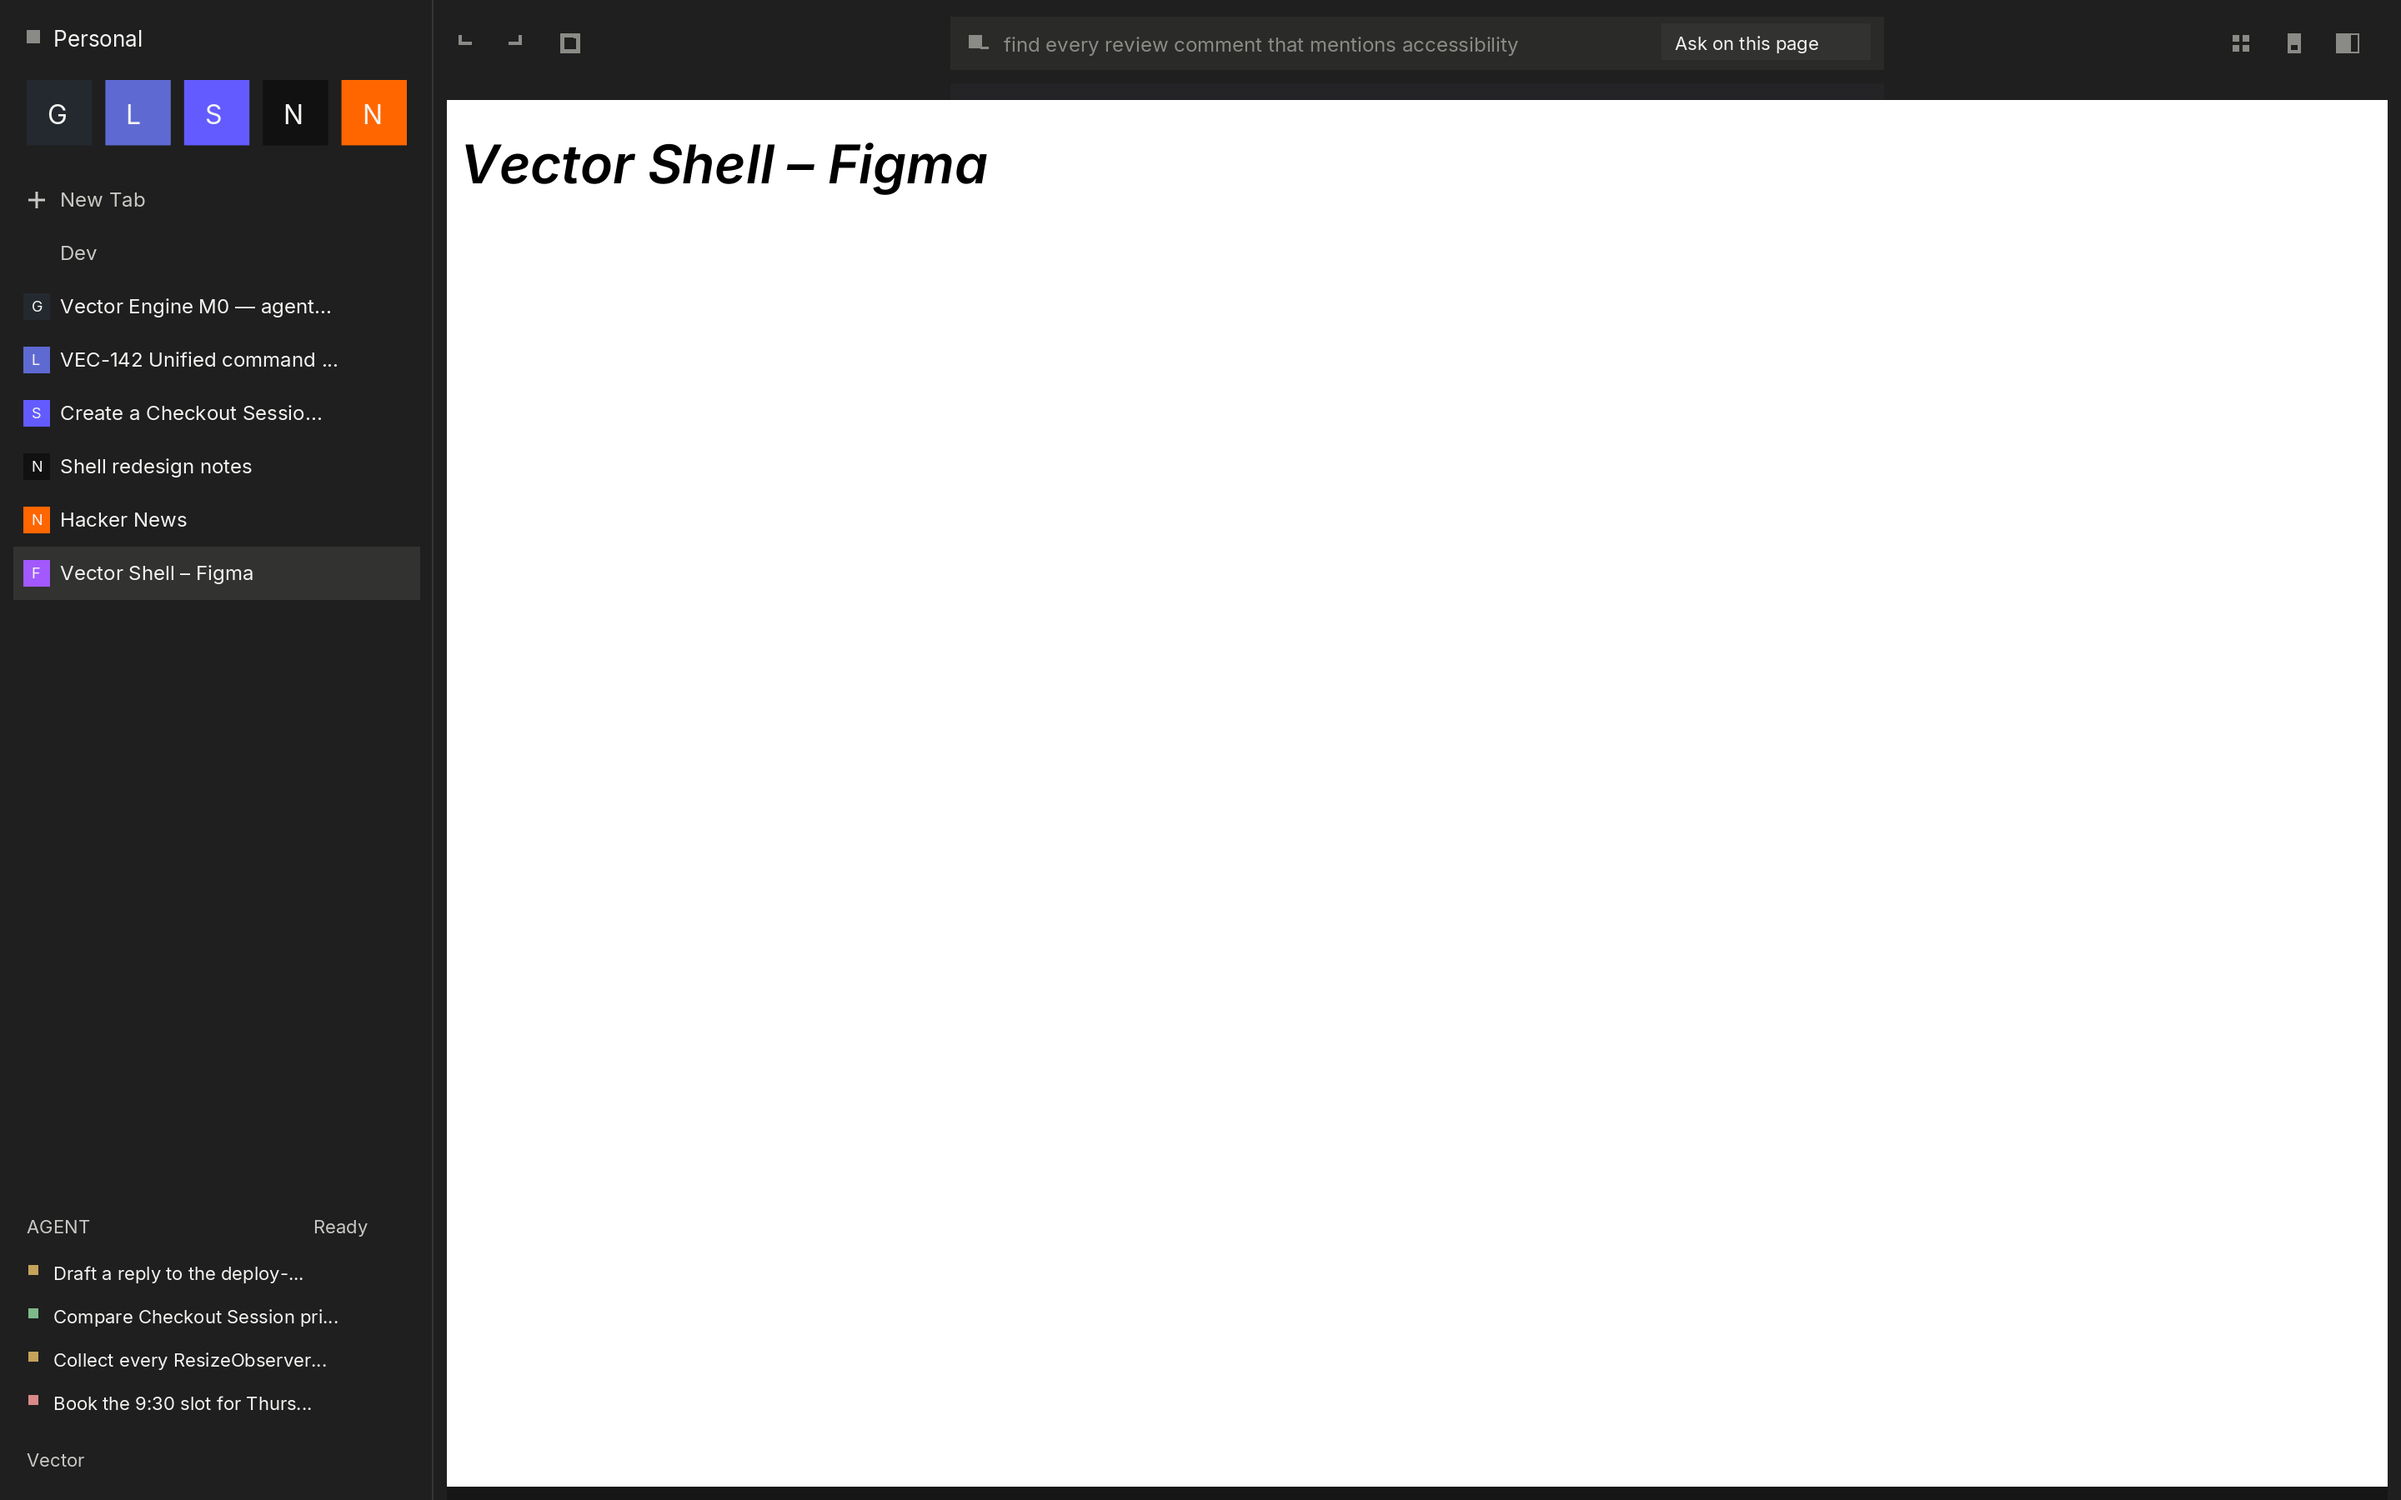
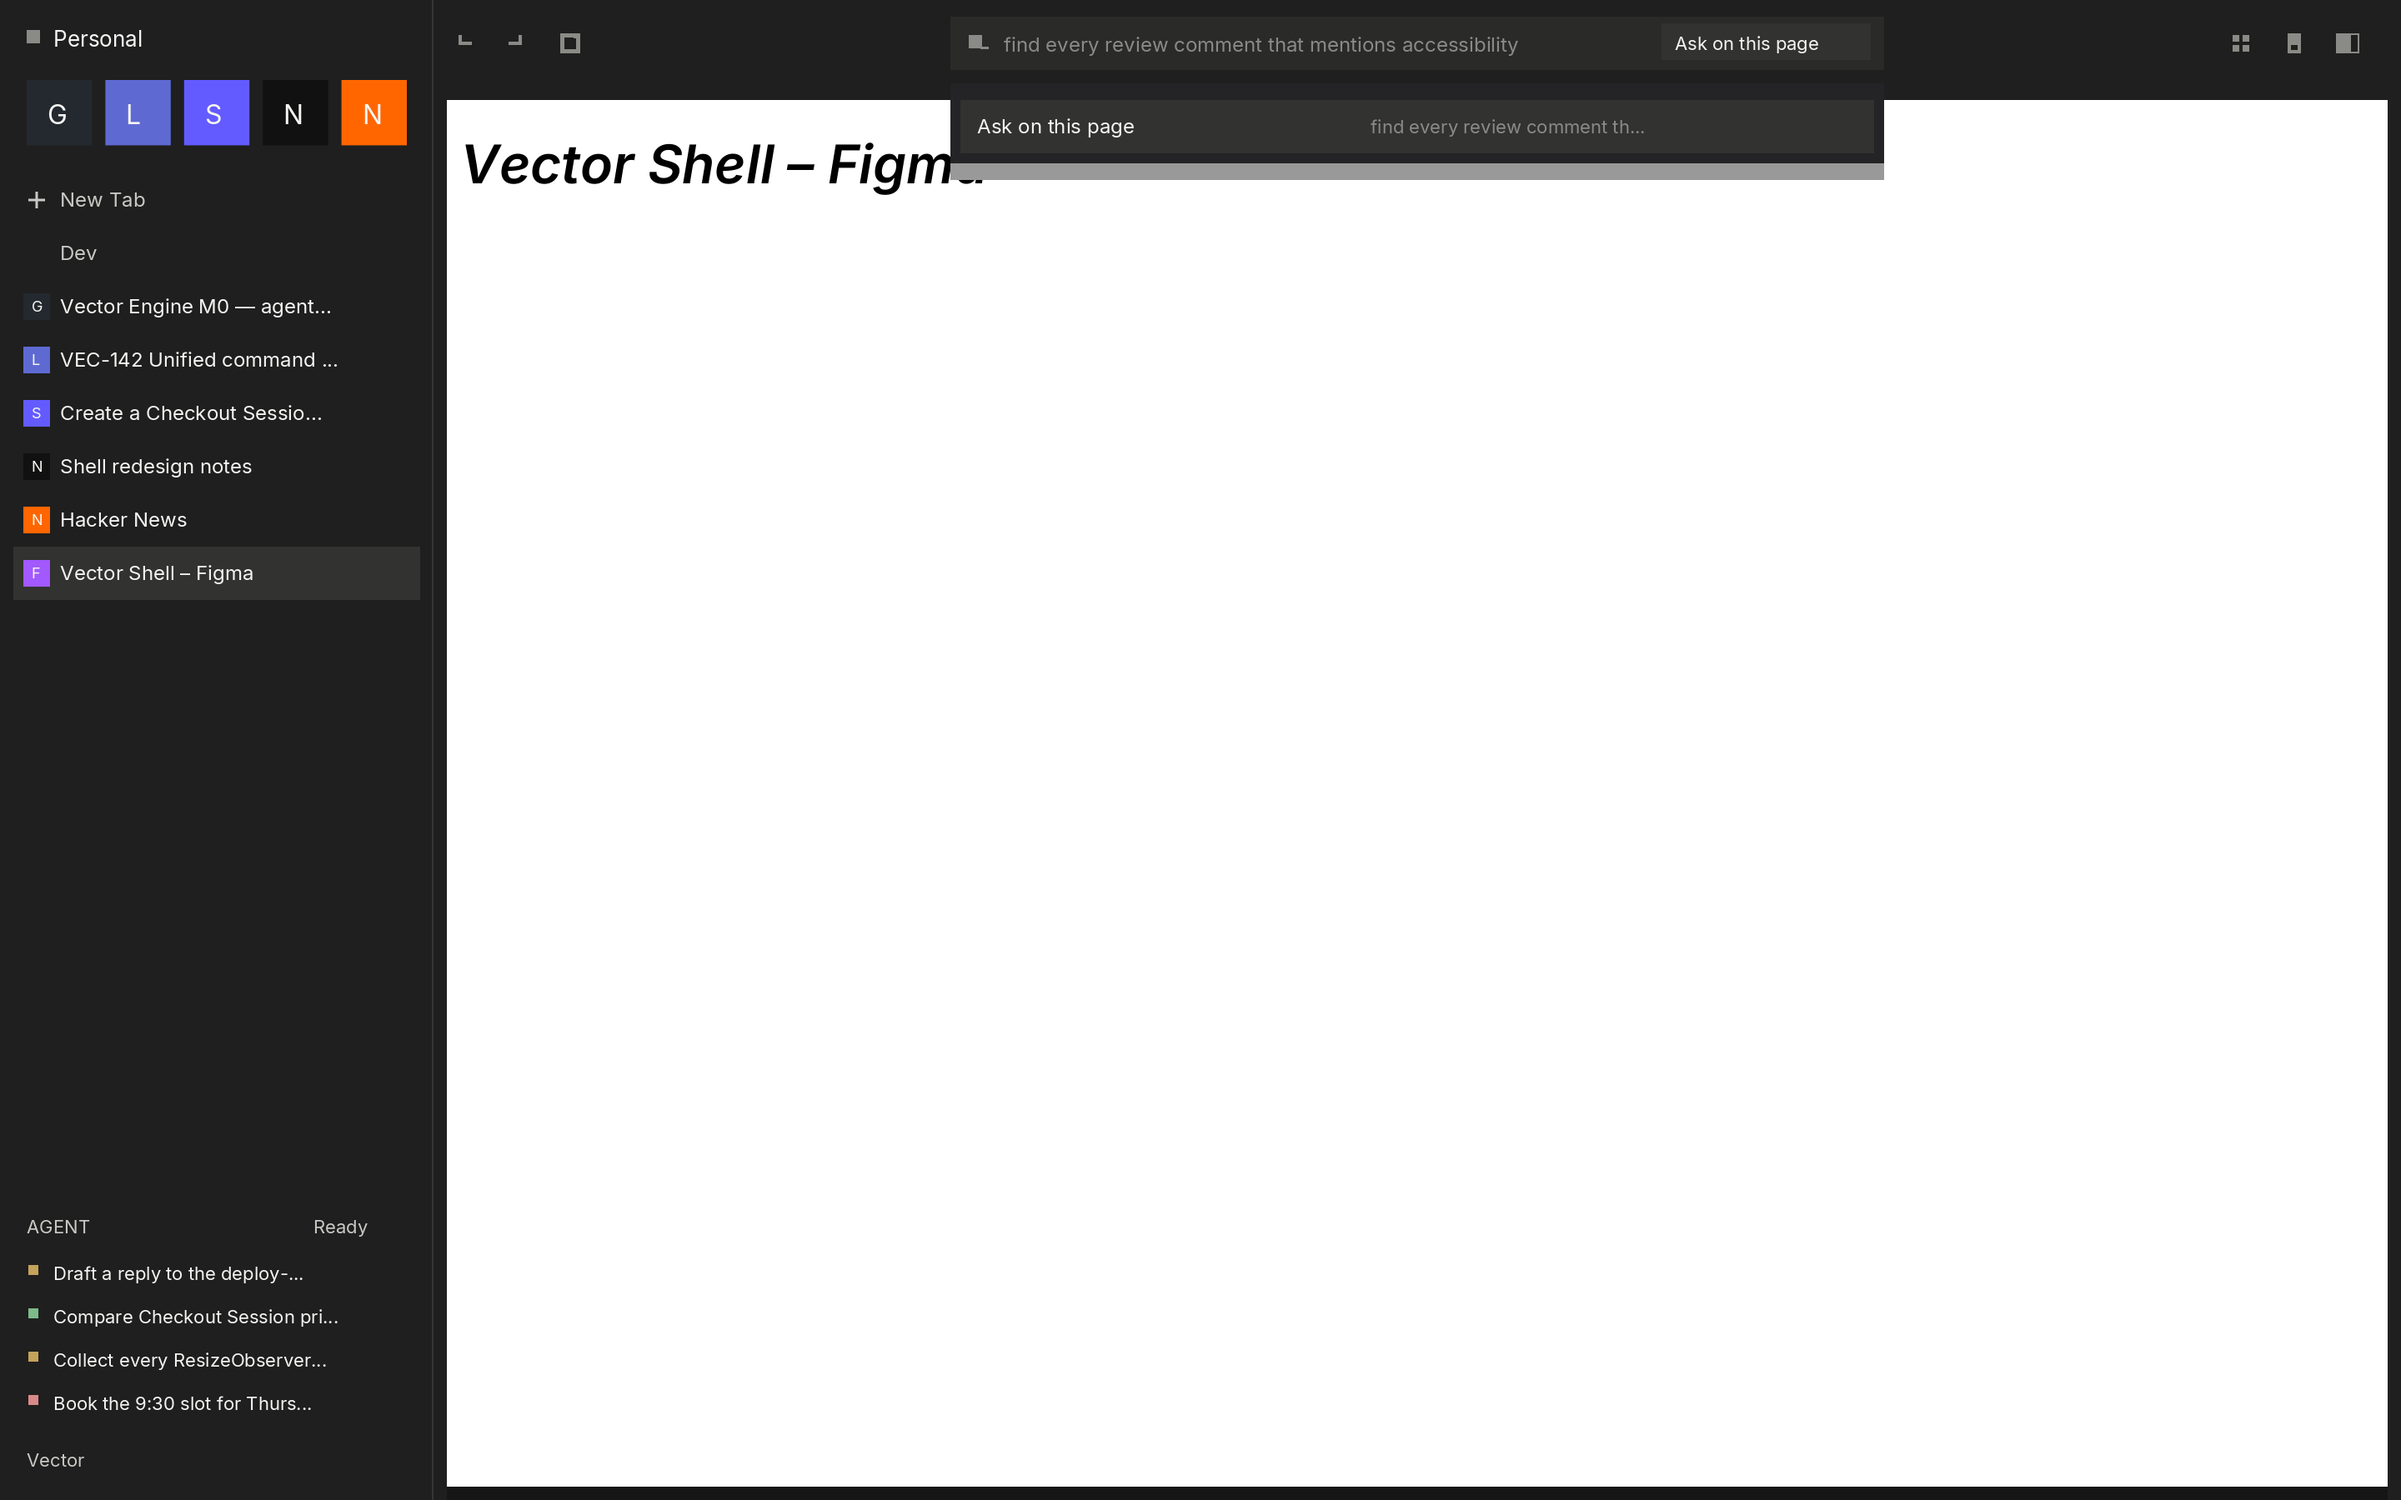
Composite the command-bar popover above the page blit.
Suggestions lived in paint_base, so the stage raster covered the
Electron 11 dropdown. They now ride the overlay pass.

Changed region(s): [[0.375, 0.0622, 0.7812, 0.1244]]

diff --git a/engine/crates/ve-chrome/src/chrome.rs b/engine/crates/ve-chrome/src/chrome.rs
@@ -591,12 +591,18 @@ impl Chrome {
         if self.find_open {
             self.paint_find(&mut list, window);
         }
-        self.paint_command_suggestions(&mut list, window);
         list
+    }
+
+    /// True when the command-bar suggestion popover should composite above the page.
+    #[must_use]
+    pub fn has_command_popover(&self) -> bool {
+        self.command_focused && !self.command.is_empty()
     }
 
     /// Overlay scrim + card on top of an existing list.
     pub fn append_overlay(&self, list: &mut DisplayList, window: Size) {
+        self.paint_command_suggestions(list, window);
         if self.overlay != ChromeOverlay::None {
             self.paint_overlay(list, window);
         }

diff --git a/engine/crates/ve-api/src/shell.rs b/engine/crates/ve-api/src/shell.rs
@@ -1499,7 +1499,7 @@ impl NativeBrowser {
                 self.present_page_layer(page, stage, scale)?;
             }
         }
-        if self.chrome.overlay != ChromeOverlay::None {
+        if self.chrome.overlay != ChromeOverlay::None || self.chrome.has_command_popover() {
             let mut overlay = ve_gfx::DisplayList::new(window);
             self.chrome.append_overlay(&mut overlay, window);
             let renderer = self.sw.as_mut().expect("software renderer");
